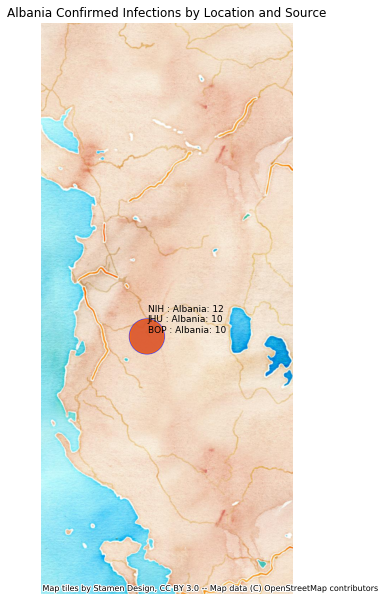
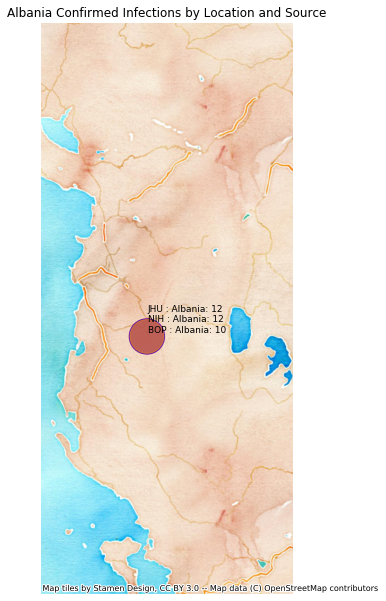
daily update

Changed region(s): [[0.3109, 0.5092, 0.5907, 0.599]]

diff --git a/country_reports/Afghanistan_report.md b/country_reports/Afghanistan_report.md
@@ -16,11 +16,11 @@
 |                           | JHU                         | BOP              | NIHFogarty       |
 |---------------------------|-----------------------------|------------------|------------------|
 | First update logged       | 01/22/20                    | 01/12/20         | 01/13/20         |
-| Last update logged        | 03/10/20                    | 03/09/20         | 03/11/20         |
+| Last update logged        | 03/11/20                    | 03/09/20         | 03/11/20         |
 | Method                    | Cases by day & country list | Public line list | Public line list |
 | First known case          | 01/22/20                    | 02/24/20         | 02/24/20         |
-| Total confirmed cases     | 5                           | 4                | 1                |
-| New cases since yesterday | 1                           |                  |                  |
+| Total confirmed cases     | 7                           | 4                | 1                |
+| New cases since yesterday | 2                           |                  |                  |
 | Total suspected           |                             |                  |                  |
 | Total hospitalized        |                             | 0                | 0                |
 | Total recovered           | 0                           | 0                |                  |
@@ -41,7 +41,7 @@ Data sources: BOP, JHU, NIH-Fogarty,
 | source   | loc_name    |   confirmed |
 |----------|-------------|-------------|
 | NIH      | Afghanistan |           7 |
-| JHU      | Afghanistan |           5 |
+| JHU      | Afghanistan |           7 |
 | BOP      | Herat       |           4 |
 
 Data sources: BOP, JHU, Natural Earth, NIH-Fogarty, Tencent

diff --git a/country_reports/Albania_report.md b/country_reports/Albania_report.md
@@ -16,15 +16,15 @@
 |                           | JHU                         |
 |---------------------------|-----------------------------|
 | First update logged       | 01/22/20                    |
-| Last update logged        | 03/10/20                    |
+| Last update logged        | 03/11/20                    |
 | Method                    | Cases by day & country list |
 | First known case          | 01/22/20                    |
-| Total confirmed cases     | 10                          |
-| New cases since yesterday | 8                           |
+| Total confirmed cases     | 12                          |
+| New cases since yesterday | 2                           |
 | Total suspected           |                             |
 | Total hospitalized        |                             |
 | Total recovered           | 0                           |
-| Total deaths              | 0                           |
+| Total deaths              | 1                           |
 
 Data sources: JHU, 
 
@@ -41,7 +41,7 @@ Data sources: JHU,
 | source   | loc_name   |   confirmed |
 |----------|------------|-------------|
 | NIH      | Albania    |          12 |
-| JHU      | Albania    |          10 |
+| JHU      | Albania    |          12 |
 | BOP      | Albania    |          10 |
 
 Data sources: BOP, JHU, Natural Earth, NIH-Fogarty, Tencent

diff --git a/country_reports/Algeria_report.md b/country_reports/Algeria_report.md
@@ -16,7 +16,7 @@
 |                           | JHU                         | BOP              | NIHFogarty       |
 |---------------------------|-----------------------------|------------------|------------------|
 | First update logged       | 01/22/20                    | 01/12/20         | 01/13/20         |
-| Last update logged        | 03/10/20                    | 03/09/20         | 03/11/20         |
+| Last update logged        | 03/11/20                    | 03/09/20         | 03/11/20         |
 | Method                    | Cases by day & country list | Public line list | Public line list |
 | First known case          | 01/22/20                    | 02/25/20         | 02/26/20         |
 | Total confirmed cases     | 20                          | 14               | 1                |

diff --git a/country_reports/Andorra_report.md b/country_reports/Andorra_report.md
@@ -16,7 +16,7 @@
 |                           | JHU                         | BOP              |
 |---------------------------|-----------------------------|------------------|
 | First update logged       | 01/22/20                    | 01/12/20         |
-| Last update logged        | 03/10/20                    | 03/09/20         |
+| Last update logged        | 03/11/20                    | 03/09/20         |
 | Method                    | Cases by day & country list | Public line list |
 | First known case          | 01/22/20                    | 03/02/20         |
 | Total confirmed cases     | 1                           | 1                |

diff --git a/country_reports/Hungary_report.md b/country_reports/Hungary_report.md
@@ -1,6 +1,6 @@
 # Hungary
 ## NSSAC COVID-19 Summary
-## 03/11/2020
+## 03/12/2020
 
 
 
@@ -40,7 +40,7 @@ Data sources: JHU,
 
 | source   | loc_name   |   confirmed |
 |----------|------------|-------------|
-| NIH      | Hungary    |           9 |
+| NIH      | Hungary    |          13 |
 | JHU      | Hungary    |           9 |
 | BOP      | Hungary    |           9 |
 
